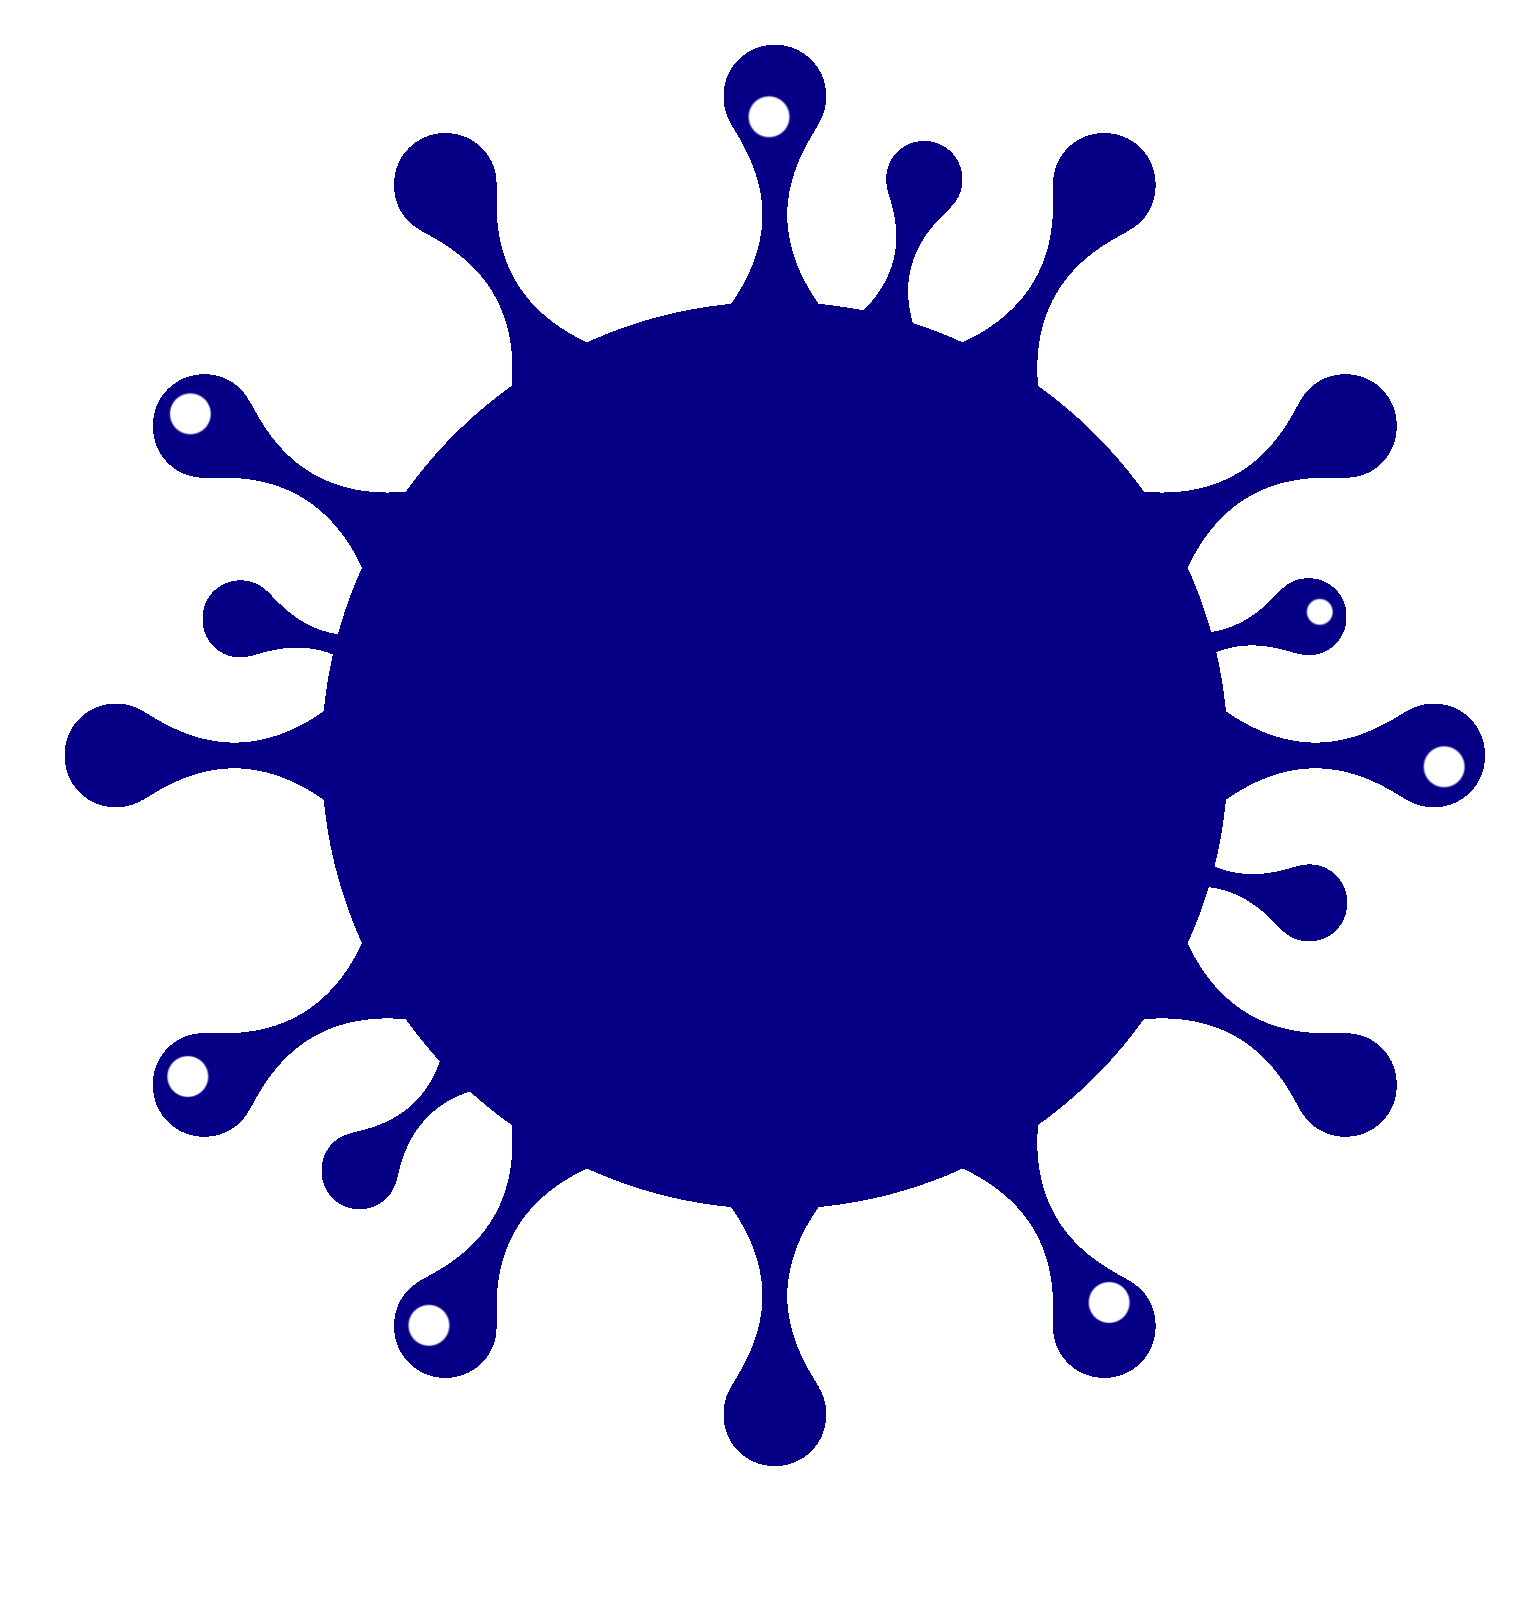
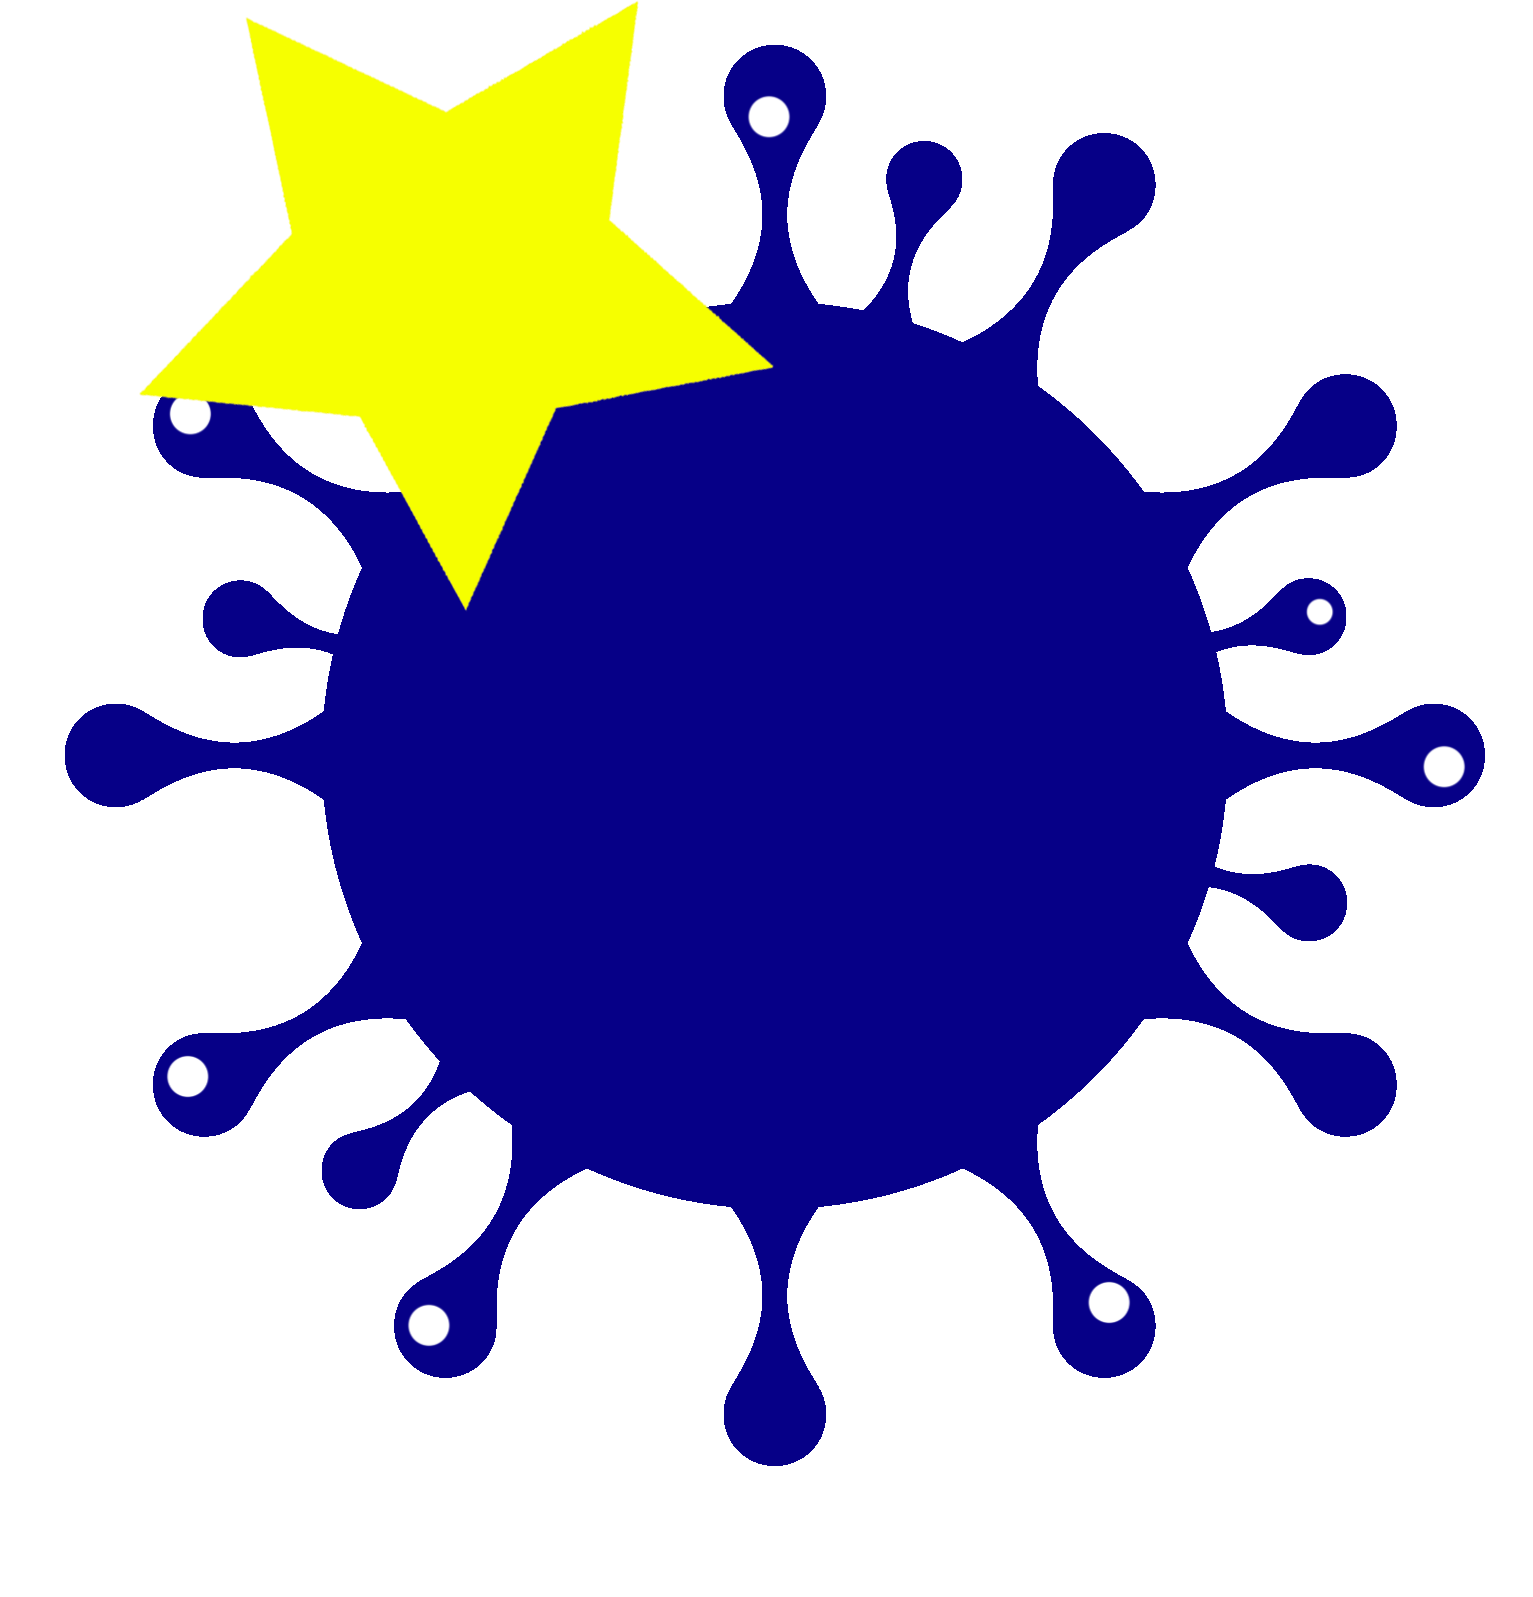
test

Changed region(s): [[0.092, 0.0, 0.5212, 0.3989]]

diff --git a/public/js/canvas.js b/public/js/canvas.js
@@ -4,39 +4,133 @@ const mRandom = (min, max) => {
 
 const createCorona = () => {
   if (repeatTime % 100 === 0) {
-    let rdIndex = mRandom(0, characters.length);
+    let rdIndex = mRandom(0, selected.length);
+    let character = selected[rdIndex];
 
-    let character = characters[rdIndex];
-
-    characters.splice(rdIndex, 1);
-
+    selected.splice(rdIndex, 1);
+    console.log(selected);
     let percent = mRandom(0, 100);
 
     if (percent > 20) {
       let image = imgArray[mRandom(0, imgArray.length)];
       arrCorona.push(new Corona(character, image));
-    } else if (percent > 7) {
+    } else if (percent > 15) {
       arrCorona.push(new Corona(character, coronaBlack, TYPE_BLACK));
     } else {
-      arrCorona.push(new Corona(character, corona, TYPE_STAR));
+      arrCorona.push(new Corona(character, coronaStar, TYPE_STAR));
     }
   }
 };
 
-// const drawCorona = () => {
-//   for (let covid of arrCorona) {
-//     covid.image.onload = function () {
-//       covid.draw();
-//     };
-//   }
-// };
-
-const animation = () => {
-  createCorona();
-  requestAnimationFrame(animation);
-  ctx.clearRect(0, 0, innerWidth, innerHeight);
+const checkLose = () => {
   for (let covid of arrCorona) {
-    covid.update();
+    if (covid.y > canvas.height && covid.type != TYPE_BLACK) {
+      end = true;
+    }
   }
 };
-animation();
+
+const animation = () => {
+  isStart = false;
+
+  createCorona();
+  request = requestAnimationFrame(animation);
+  ctx.clearRect(0, 0, innerWidth, innerHeight);
+  repeatTime += 0.5;
+  for (let covid of arrCorona) {
+    covid.draw();
+    covid.update();
+  }
+  wordComplete();
+
+  // checkRound(selected);
+  // checkLose();
+  // if (end) {
+  //   cancelAnimationFrame(request);
+  //   btnR.style.display = "inline-block";
+  //   end = false;
+  // }
+};
+function checkRound(arr) {
+  if (arr.length == 0 && roundNumber <= 5) {
+    selected = shuffled.slice(0, round[roundNumber + 1]);
+  }
+}
+btnR.addEventListener("click", (e) => {
+  arrCorona = [];
+  repeatTime = 0;
+  characters = data.map((e) => e);
+  play();
+});
+btn.addEventListener("click", (e) => {
+  play();
+});
+
+function play() {
+  name_game.style.display = "none";
+  btn.style.display = "none";
+  btnR.style.display = "none";
+  selected = shuffled.slice(0, round[roundNumber]);
+  animation();
+  // window.addEventListener("keypress", (e) => {
+  //   if (e.keyCode == 13 && !isStart && repeatTime == 0) {
+  //     animation();
+  //     isStart = true;
+  //   }
+  // });
+}
+// const keyPress = () =>{
+document.addEventListener("keypress", (e) => {
+  const key = e.key;
+  if (currentCorona === undefined) {
+    firstLetter = key;
+    checkcurrentCorona();
+  }
+  if (matchescurrentCorona(correctLettersTyped, key)) {
+    correctLettersTyped.push(key);
+  }
+
+});
+// }
+const checkcurrentCorona = () => {
+  for (let covid of arrCorona) {
+    if (Object.values(covid.character)[1].split("")[0] === firstLetter) {
+      currentCorona = covid;
+    }
+  }
+};
+
+function matchescurrentCorona(correctLetters, keyPress) {
+  let check = false;
+  if (currentCorona != undefined) {
+    const idxToCheck = correctLetters.length;
+    const wordLetters = Object.values(currentCorona.character)[1].split("");
+    
+    if (keyPress === wordLetters[idxToCheck]) {
+      check = true;
+    } else {
+      check = false;
+    }
+  }
+  return check;
+}
+const removeCorona = (corona) => {
+  
+  let coronaIndex = selected.indexOf(corona);
+  console.log(coronaIndex);
+  // characters.push(corona.character)
+  // selected.splice(coronaIndex, 1)
+}
+const wordComplete = () => {
+  // console.log(correctLettersTyped.join(""));
+  
+  if (
+    correctLettersTyped.length > 0 &&
+    correctLettersTyped.join("") === Object.values(currentCorona.character)[1]
+  ) {
+    correctLettersTyped = [];
+    removeCorona(currentCorona);
+    firstLetter = undefined;
+    currentCorona = undefined;
+  }
+};

diff --git a/public/js/config.js b/public/js/config.js
@@ -4,8 +4,8 @@ const ctx = canvas.getContext("2d");
 const coronaBlack = new Image();
 coronaBlack.src = "./public/images/corona3.png";
 
-const corona = new Image();
-corona.src = "./public/images/corona1.png";
+const coronaStar = new Image();
+coronaStar.src = "./public/images/corona1.png";
 
 var imgArray = new Array();
 imgArray[0] = new Image();
@@ -20,11 +20,27 @@ imgArray[2].src = "./public/images/corona5.png";
 imgArray[3] = new Image();
 imgArray[3].src = "./public/images/corona6.png";
 
+const round = {
+  1: 5,
+  2: 7,
+  3: 10,
+  4: 15,
+  5: 20,
+};
+
 let arrCorona = [];
 const TYPE_NORMAL = 1;
 const TYPE_STAR = 2;
 const TYPE_BLACK = 3;
-
+let end = false;
 let characters = data.map((e) => e);
 var repeatTime = 0;
+let request;
+let isStart = false;
+const shuffled = characters.sort(() => 0.5 - Math.random());
+let selected;
+let roundNumber = 1;
+let firstLetter = undefined;
+let currentCorona = undefined;
+let correctLettersTyped = [];
 // let gameFrame=0;

diff --git a/index.html b/index.html
@@ -9,11 +9,12 @@
   </head>
   <body>
     <div class="main">
-      <img class="frame" src="./public/images/frame.png" alt="" srcset="" />
-      <!-- <div class="home-screen">
+      <img class="frame" src="./public/images/Khung.png" alt="" srcset="" />
+      <div class="home-screen">
         <img class="name" src="./public/images/name_game.png" alt="" srcset="">
-        <a class="btn" onclick="play();">PLAY</a>
-      </div> -->
+        <a class="btn btn-play">PLAY</a>
+        <a class="btn btn-restart">RESTART</a>
+      </div>
       <canvas class="game" width="770px" height="500px"></canvas>
 
       <!-- <div id="element"></div> -->

diff --git a/public/css/styles.css b/public/css/styles.css
@@ -37,6 +37,7 @@
   background-position: center;
 }
 .btn {
+  position: absolute;
   margin-top: 50px;
   height: 67px;
   z-index: 999;
@@ -45,7 +46,7 @@
   border-radius: 10px;
   text-decoration: none;
   box-sizing: border-box;
-  font-family: 'elfboyclassic';
+  font-family: "elfboyclassic";
   font-size: 70px;
   color: #ffffff;
   text-align: center;
@@ -53,11 +54,13 @@
   background: #00226f;
   cursor: pointer;
   transform: scale(1);
-  transition: transform .2s;
+  transition: transform 0.2s;
 }
 .btn:hover {
   transform: scale(1.05);
   color: #00226f;
   background-color: #ffffff;
 }
-
+.btn-restart {
+  display: none;
+}

diff --git a/public/js/data.js b/public/js/data.js
@@ -109,4 +109,14 @@ const data = [
     { hiragana: "みゅ", romaji: "myu" },
     { hiragana: "みょ", romaji: "myo" },
 
+    { hiragana: "一", romaji: "1" },
+    { hiragana: "二", romaji: "2" },
+    { hiragana: "三", romaji: "3" },
+    { hiragana: "四", romaji: "4" },
+    { hiragana: "五", romaji: "5" },
+    { hiragana: "六", romaji: "6" },
+    { hiragana: "七", romaji: "7" },
+    { hiragana: "八", romaji: "8" },
+    { hiragana: "九", romaji: "9" },
+
 ];

diff --git a/public/js/javascript.js b/public/js/javascript.js
@@ -1,13 +1,4 @@
 const name_game = document.querySelector(".name");
-const btn = document.querySelector(".btn");
-function play() {
-  console.log("a");
-  if (name_game.style.display !== "none") {
-    name_game.style.display = "none";
-    btn.style.display = "none";
-  } else {
-    name_game.style.display = "block";
-  }
-}
-
+const btn = document.querySelector(".btn-play");
+const btnR = document.querySelector(".btn-restart");
 

diff --git a/public/js/corona.js b/public/js/corona.js
@@ -9,8 +9,7 @@ class Corona {
 
   update() {
     this.y += 0.5;
-    repeatTime += 0.5;
-    this.draw();
+
   }
 
   draw() {
